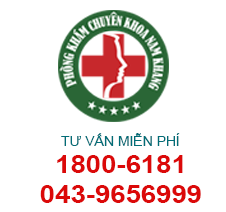
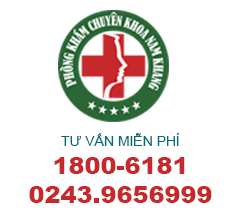
oke

Changed region(s): [[0.1239, 0.8491, 0.9602, 0.9623], [0.2168, 0.7075, 0.8363, 0.8208]]

diff --git a/public/js/desktop/dkdt.js b/public/js/desktop/dkdt.js
@@ -1,0 +1,104 @@
+document.writeln("<style>" +
+    ".dangkysdt {visibility: visible;position: fixed;background-color: transparent;width: 200px;height: 200px;cursor: pointer;z-index: 200000 !important;-webkit-backface-visibility: hidden;-webkit-transform: translateZ(0);-webkit-transition: visibility .5s;-moz-transition: visibility .5s;-o-transition: visibility .5s;transition: visibility .5s;right: -10px;top: 150px;cursor: pointer;}" +
+    ".dangkysdt:hover{opacity: 1;}" +
[1 lines of base64/hex data omitted]
+    "#dangkysdt p {background: rgba(0,0,0,.8);border-radius: 5px;color: #fff;text-align: center;padding: 5px 0;position: absolute;z-index: 98;width: 90px;font-size: 12px;bottom: 20px;left: 0;right: 0;margin: 0 auto;display: none;}" +
+    "#dangkysdt:hover p{display: block;}" +
+    ".fp-ph-circle {width: 160px;height: 160px;top: 20px;left: 20px;position: absolute;background-color: transparent;-webkit-border-radius: 100%;-moz-border-radius: 100%;border-radius: 100%;border: 2px solid #bfebfc;opacity: .5;-webkit-animation: fp-circle-anim 1.2s infinite ease-in-out;-moz-animation: fp-circle-anim 1.2s infinite ease-in-out;-ms-animation: fp-circle-anim 1.2s infinite ease-in-out;-o-animation: fp-circle-anim 1.2s infinite ease-in-out;animation: fp-circle-anim 1.2s infinite ease-in-out;}" +
+    "@keyframes fp-circle-anim{0%{transform: scale(.5);opacity:.1}30%{transform:scale(.7);opacity:.5}100%{transform: scale(1);opacity:.1}}@-o-keyframes fp-circle-anim{0%{transform: scale(.5);opacity:.1}30%{transform:scale(.7);opacity:.5}100%{transform: scale(1);opacity:.1}}@-moz-keyframes fp-circle-anim{0%{transform: scale(.5);opacity:.1}30%{transform:scale(.7);opacity:.5}100%{transform: scale(1);opacity:.1}}@-webkit-keyframes fp-circle-anim{0%{transform: scale(.5);opacity:.1}30%{transform:scale(.7);opacity:.5}100%{transform: scale(1);opacity:.1}}" +
+    ".dangkysdt .fp-ph-circle-fill {opacity: .75 !important;}" +
+    ".fp-ph-circle-fill {width: 100px;height: 100px;top: 50px;left: 50px;position: absolute;background-color: #00aff2;-webkit-border-radius: 100%;-moz-border-radius: 100%;border-radius: 100%;border: 2px solid transparent;opacity: .1;-webkit-animation: fp-circle-fill-anim 2.3s infinite ease-in-out;-moz-animation: fp-circle-fill-anim 2.3s infinite ease-in-out;-ms-animation: fp-circle-fill-anim 2.3s infinite ease-in-out;-o-animation: fp-circle-fill-anim 2.3s infinite ease-in-out;animation: fp-circle-fill-anim 2.3s infinite ease-in-out;}" +
+    "@keyframes fp-circle-fill-anim{0%{transform:rotate(0) scale(.7) skew(1deg);opacity:.2}50%{transform:rotate(0) scale(1) skew(1deg);opacity:.2}100%{transform:rotate(0) scale(.7) skew(1deg);opacity:.2}}@-o-keyframes fp-circle-fill-anim{0%{transform:rotate(0) scale(.7) skew(1deg);opacity:.2}50%{transform:rotate(0) scale(1) skew(1deg);opacity:.2}100%{transform:rotate(0) scale(.7) skew(1deg);opacity:.2}}@-moz-keyframes fp-circle-fill-anim{0%{transform:rotate(0) scale(.7) skew(1deg);opacity:.2}50%{transform:rotate(0) scale(1) skew(1deg);opacity:.2}100%{transform:rotate(0) scale(.7) skew(1deg);opacity:.2}}@-webkit-keyframes fp-circle-fill-anim{0%{transform:rotate(0) scale(.7) skew(1deg);opacity:.2}50%{transform:rotate(0) scale(1) skew(1deg);opacity:.2}100%{transform:rotate(0) scale(.7) skew(1deg);opacity:.2}}" +
+    ".fp-ph-img-circle {width: 60px;height: 60px;top: 70px;left: 70px;position: absolute;background: #00aff2 url(http://phongkhamnamkhang.net/public/images/global/ringcall/ico_dienthoai.gif) no-repeat center center;background-size: 70%;-webkit-border-radius: 100%;-moz-border-radius: 100%;border-radius: 100%;border: 2px solid transparent;opacity: .7;-webkit-animation: fp-circle-img-anim 1s infinite ease-in-out;-moz-animation: fp-circle-img-anim 1s infinite ease-in-out;-ms-animation: fp-circle-img-anim 1s infinite ease-in-out;-o-animation: fp-circle-img-anim 1s infinite ease-in-out;animation: fp-circle-img-anim 1s infinite ease-in-out;}" +
+    "@keyframes fp-circle-img-anim{0%{transform:rotate(0) scale(1) skew(1deg)}10%{transform:rotate(-25deg) scale(1) skew(1deg)}20%{transform:rotate(25deg) scale(1) skew(1deg)}30%{transform:rotate(-25deg) scale(1) skew(1deg)}40%{transform:rotate(25deg) scale(1) skew(1deg)}50%{transform:rotate(0) scale(1) skew(1deg)}100%{transform:rotate(0) scale(1) skew(1deg)}}@-o-keyframes fp-circle-img-anim{0%{transform:rotate(0) scale(1) skew(1deg)}10%{transform:rotate(-25deg) scale(1) skew(1deg)}20%{transform:rotate(25deg) scale(1) skew(1deg)}30%{transform:rotate(-25deg) scale(1) skew(1deg)}40%{transform:rotate(25deg) scale(1) skew(1deg)}50%{transform:rotate(0) scale(1) skew(1deg)}100%{transform:rotate(0) scale(1) skew(1deg)}}@-moz-keyframes fp-circle-img-anim{0%{transform:rotate(0) scale(1) skew(1deg)}10%{transform:rotate(-25deg) scale(1) skew(1deg)}20%{transform:rotate(25deg) scale(1) skew(1deg)}30%{transform:rotate(-25deg) scale(1) skew(1deg)}40%{transform:rotate(25deg) scale(1) skew(1deg)}50%{transform:rotate(0) scale(1) skew(1deg)}100%{transform:rotate(0) scale(1) skew(1deg)}}@-webkit-keyframes fp-circle-img-anim{0%{transform:rotate(0) scale(1) skew(1deg)}10%{transform:rotate(-25deg) scale(1) skew(1deg)}20%{transform:rotate(25deg) scale(1) skew(1deg)}30%{transform:rotate(-25deg) scale(1) skew(1deg)}40%{transform:rotate(25deg) scale(1) skew(1deg)}50%{transform:rotate(0) scale(1) skew(1deg)}100%{transform:rotate(0) scale(1) skew(1deg)}}" +
+    ".dangkysdt:hover .fp-ph-circle,.dangkysdt:hover .fp-ph-circle-fill{background: #baf5a7;border-color: #baf5a7;}" +
+    ".dangkysdt:hover .fp-ph-img-circle{background: #baf5a7 url(http://phongkhamnamkhang.net/public/images/global/ringcall/ico_dienthoai.gif) no-repeat center center;background-size: 70%;}" +
+    "#popup_dangkysdt{position: fixed;width: 100%;bottom: 0;top: 0;left: 0;z-index: 2000000;overflow: visible;display: none;color: #383838;text-align: center;}" +
+    ".popup_dangkysdt_ct{display: inline-block;background: #ffffff;border-radius: 20px;margin: auto;padding: 60px 75px 60px 75px;position: relative;top: 30px;z-index: 200001;}" +
+    ".popup_dangkysdt_ct label{text-align: center;font-size: 24px;display: block;}" +
+    ".popup_dangkysdt_ct .input{width: 80%;margin: auto;margin-top: 50px;}" +
+    ".popup_dangkysdt_ct .input input{border-width: 0;display: block;border: none;border-bottom: #00bed5 solid 1px;color: #00bed5;width: 100%;text-align: center;font-size: 24px;}" +
+    ".popup_dangkysdt_ct button{width: auto;display: block;margin: 0 auto;border: none;border-width: 0;padding: 20px 40px;background-color: #6fdae7;-webkit-border-radius: 68px;-moz-border-radius: 68px;-webkit-border-radius: 68px;-moz-border-radius: 68px;border-radius: 68px;font-size: 20px;color: #fff;cursor: pointer;outline: none !important;margin-top: 30px;}" +
+    ".popup_dangkysdt_ct button:hover{background-color: #00aff2;}" +
+    ".popup_dangkysdt_ct .popup_dangkysdt_close{-webkit-border-radius: 2px !important;-moz-border-radius: 2px !important;-webkit-border-radius: 2px;-moz-border-radius: 2px;border-radius: 2px;position: absolute !important;right: -15px !important;top: -15px !important;height: 30px !important;width: 30px !important;background-image: url(http://phongkhamnamkhang.net/public/images/global/ringcall/dangkysdt_close.png);background-position: center center;background-repeat: no-repeat;cursor: pointer !important;-webkit-transition: .3s ease-out !important;-moz-transition: .3s ease-out !important;-o-transition: .3s ease-out !important;transition: .3s ease-out !important;}" +
+    ".popup_dangkysdt_tb{display: inline-block;background: transparent;margin: auto;padding: 60px 75px;position: relative;top: 30px;z-index: 200001;}"+
+    ".popup_dangkysdt_tb p{color: #ffffff;font-size: 20px;}"+
+    "</style>");
+//document.writeln("<div class='dangkysdt' id='dangkysdt'><p>Click Ngay</p><div class='fp-ph-circle'></div><div class='fp-ph-circle-fill'></div><div class='fp-ph-img-circle'></div></div><div id='popup_dangkysdt'><div class='popup_dangkysdt_ct'><span class='popup_dangkysdt_close'></span><label>Nhập số điện thoại của Bạn và Bác sỹ sẽ gọi lại sau 36 giây!</label><form name='popup_dangkysdt'><div class='input'><input type='text' name='dienthoai' onfocus="(this.value == 'Nhập số điện thoại') && (this.value = '')" onblur="(this.value == '') && (this.value = 'Nhập số điện thoại')" onkeypress='return event.charCode >= 48 &amp;&amp; event.charCode <= 57'  maxlength='13'></div></form><button type='button' class='popup_dangkysdt_dangky'>Click để được gọi lại!</button></div></div>");
+var str_html='<div class="dangkysdt" id="dangkysdt">' +
+    '<p>Click Ngay</p>' +
+    '<div class="fp-ph-circle"></div>' +
+    '<div class="fp-ph-circle-fill"></div>' +
+    '<div class="fp-ph-img-circle"></div>' +
+    '</div>';
+    var str_html2='<div id="popup_dangkysdt">' +
+        '<div class="fp-overlay"></div>' +
+        '<div class="popup_dangkysdt_tb" style="display:none;"><p><img src="http://phongkhamnamkhang.net/public/images/global/ringcall/ok.png"></p><p>Yêu cầu gọi lại đã được gửi đến bác sỹ, mong bạn nhẫn nại chờ đợi!</p></div>'+
+        '<div class="popup_dangkysdt_ct">' +
+        '<span class="popup_dangkysdt_close">' +
+        '</span><label>Nhập số điện thoại của Bạn và Bác sỹ sẽ gọi lại sau 30 giây!</label>' +
+        '<form name="popup_dangkysdt" id="goilaisodienthoai">' +
+        '<div class="input">' +
+        '<input type="text" name="dienthoai" value="Nhập số điện thoại" onfocus="(this.value == '+"'Nhập số điện thoại'"+') && (this.value ='+"''"+' )"'+' onblur="(this.value =='+"''"+" ) && (this.value = 'Nhập số điện thoại')"+'"'+'onkeypress="return event.charCode >= 48 &amp;&amp; event.charCode <= 57" maxlength="13"></div></form>' +
+        '<button type="button" class="popup_dangkysdt_dangky">Click để được gọi lại'+'</button><p style="text-align:center;margin-top:15px;font-size:16px;">Trực tiếp gọi tới số : <a href="tel:1800 6181"><strong style="font-weight:bold;">1800 6181</strong></a> hoặc <a href="tel:0243 - 9656999"><strong style="font-weight:bold;">0243 - 9656999</strong></a>   sẽ càng thuận tiện hơn !</p>' +
+'</div></div>';
+var str=str_html+str_html2;
+document.writeln(str);
+//document.writeln('<div class="dangkysdt" id="dangkysdt"><p>Click Ngay</p><div class="fp-ph-circle"></div><div class="fp-ph-circle-fill"></div><div class="fp-ph-img-circle"></div></div><div id="popup_dangkysdt"><div class="popup_dangkysdt_ct"><span class="popup_dangkysdt_close"></span><label>Nhập số điện thoại của Bạn và Bác sỹ sẽ gọi lại sau 36 giây!</label><form name="popup_dangkysdt"><div class="input"><input type="text" name="dienthoai" onfocus="(this.value == "Nhập số điện thoại") && (this.value = "")" onblur="(this.value == '') && (this.value = 'Nhập số điện thoại')" onkeypress='return event.charCode >= 48 &amp;&amp; event.charCode <= 57'  maxlength='13'></div></form><button type='button' class='popup_dangkysdt_dangky'>Click để được gọi lại!</button></div></div>');
+function checknumberphone(number){
+    var filter = /^[0-9-+]+$/;
+    if (filter.test(number)) {
+        var _len=number.length;
+        if(_len >= 8 && _len <= 13){
+            return 1;
+        }else{
+            return 0;
+        }
+    }
+    else {
+        return 0;
+    }
+}
+$(document).ready(function(){
+    $.ajaxSetup({
+        headers: {
+            'X-CSRF-TOKEN': $('meta[name="csrf-token"]').attr('content')
+        }
+    });
+    $('#dangkysdt').click(function(){
+        $('#popup_dangkysdt').css('display','block');
+    })
+    $('.popup_dangkysdt_close').click(function(){
+        $('#popup_dangkysdt').css('display','none');
+    })
+    $(".popup_dangkysdt_dangky").on("click", function (e) {
+        var hoten = 'Đăng ký số điện thoại';
+        var dienthoai = document.forms['popup_dangkysdt']['dienthoai'].value;
+        var url=document.URL;
+        if(dienthoai=="" || dienthoai=='undifined'){
+        alert('Số điện thoại không được để trống.');
+        return false;
+        }else{
+            var checkmobile=checknumberphone(dienthoai);
+            if(checkmobile==0){
+                alert('Số điện thoại không đúng định dạng');
+                return false;
+            }else{
+                $('.popup_dangkysdt_ct').css('display','none');
+                $('.popup_dangkysdt_tb').css('display','block');
+                //alert('Số điện thoại đăng ký thành công !');
+                /* stop form from submitting normally */
+                // event.preventDefault();
+                // /* get some values from elements on the page: */
+                var url = 'http://phongkhamnamkhang.net/sendphone';
+                /* Send the data using post */
+                $.post(url,{phone:dienthoai}, function(data, status){
+                    $('.popup_dangkysdt_tb').css('display','none');
+                    $('#popup_dangkysdt').css('display','none');
+                    alert('Số điện thoại đăng ký thành công !');
+                    location.reload(true);
+                });
+            }
+        }
+    });
+});

diff --git a/public/js/desktop/right.js b/public/js/desktop/right.js
@@ -13,10 +13,16 @@ document.writeln("#sidebar ul li i.top{ width:72px; height:72px; margin-top:0}")
 document.writeln("#sidebar ul li .ht{width:72px; height:72px; position:absolute; right:-350px; background:#00F; top:0px; opacity:0; display:none}");
 document.writeln("#sidebar ul li .ht_iphone,#sidebar ul li .ht_weixin{width:226px;height:217px;top:-73px}");
 document.writeln("#sidebar ul li .ht_iphone{ background:url(http://www.phongkhamnamkhang.com/public/images/global/advleft/dhh.png) no-repeat}");
+// zalo qr
+document.writeln("#sidebar ul li .ht_iphone.zalo{ background:url(http://www.phongkhamnamkhang.com/public/images/global/advleft/zalo2.png) no-repeat}");
+// 
 document.writeln("#sidebar ul li .ht_weixin{ background:url(http://www.phongkhamnamkhang.com/public/images/global/advleft/wxh.png) no-repeat; top:-83px}");
 document.writeln(".top1{ background:url(http://www.phongkhamnamkhang.com/public/images/global/advleft/top.png) no-repeat;}");
 document.writeln(".dx{ background:url(http://www.phongkhamnamkhang.com/public/images/global/advleft/dx.png) no-repeat center center;}");
 document.writeln(".dh{ background:url(http://www.phongkhamnamkhang.com/public/images/global/advleft/dh.png) no-repeat center center;}");
+// zalo
+document.writeln(".dh.zalo{ background:url(http://www.phongkhamnamkhang.com/public/images/global/advleft/zalo1.png) no-repeat center center;}");
+//
 document.writeln(".qq{ background:url(http://www.phongkhamnamkhang.com/public/images/global/advleft/qq.png) no-repeat center center}");
 document.writeln(".dt{ background:url(http://www.phongkhamnamkhang.com/public/images/global/advleft/dt.png) no-repeat center center}");
 document.writeln(".wx{ background:url(http://www.phongkhamnamkhang.com/public/images/global/advleft/wx.png) no-repeat center center}");
@@ -47,6 +53,11 @@ document.writeln("        </a></li>");
 document.writeln("      <li><a href=\"http://swt.phongkham193.com/LR/Chatpre.aspx?id=MFI63108226&cid=1489654963660812714370&lng=en\" target=\"_blank\">");
 document.writeln("        <div class=\"sidebox\"><i class=\"wb\" name=\"wb\"></i><span style=\"font-size:13px\">Đặt hẹn<br>trực tuyến</span></div>");
 document.writeln("        </a></li>");
+
+document.writeln("      <li><a href=\"tel:18006181\" target=\"_self\"><i class=\"dh zalo js_ht\"></i>");
+document.writeln("        <div class=\"ht ht_iphone zalo\"></div>");
+document.writeln("        </a></li>");
+
 document.writeln("    </ul>");
 document.writeln("  </div>");
 

diff --git a/resources/views/layout/desktop.blade.php b/resources/views/layout/desktop.blade.php
@@ -43,9 +43,9 @@
 	<script type="text/javascript" src="{{ asset('public/js/global/slick/slick.min.js') }}"></script>
 	<script type="text/javascript" src="{{ asset('public/js/global/toastr8/dist/js/toastr8.min.js') }}"></script>
 	@yield('js')
+	<script type="text/javascript" src="{{ asset('public/js/desktop/dkdt.js') }}"></script>
 	<script type="text/javascript" src="{{ asset('public/js/desktop/desktop.js') }}"></script>
 	<script type="text/javascript" src="{{ asset('public/js/desktop/right.js') }}"></script>
-	<!-- <script type="text/javascript" src="{{ asset('public/js/desktop/swt.js') }}"></script> -->
 	<script>
 	  (function(i,s,o,g,r,a,m){i['GoogleAnalyticsObject']=r;i[r]=i[r]||function(){
 	  (i[r].q=i[r].q||[]).push(arguments)},i[r].l=1*new Date();a=s.createElement(o),
